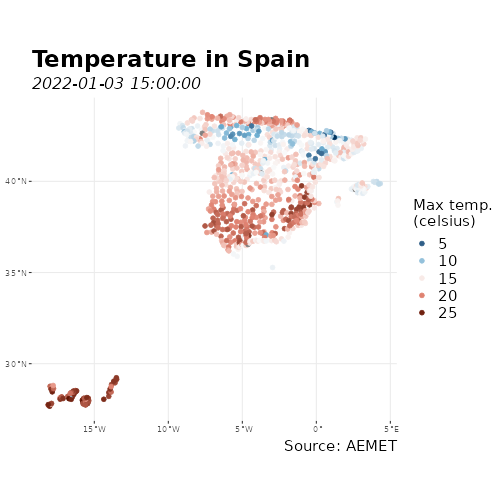
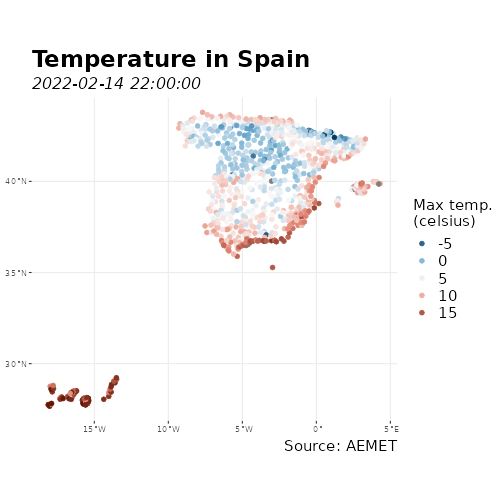
Update docs with pkgdev

diff --git a/README.md b/README.md
@@ -124,16 +124,16 @@ aemet_last_obs("9434")
 #> # A tibble: 23 × 25
 #>    idema   lon fint                 prec   alt  vmax    vv    dv   lat  dmax
 #>    <chr> <dbl> <dttm>              <dbl> <dbl> <dbl> <dbl> <dbl> <dbl> <dbl>
-#>  1 9434  -1.00 2022-01-03 15:00:00     0   249   2.7   1.8    93  41.7    33
-#>  2 9434  -1.00 2022-01-03 16:00:00     0   249   2.7   1.8    95  41.7    95
-#>  3 9434  -1.00 2022-01-03 17:00:00     0   249   2.4   1.2    71  41.7   130
-#>  4 9434  -1.00 2022-01-03 18:00:00     0   249   2.3   1      90  41.7    60
-#>  5 9434  -1.00 2022-01-03 19:00:00     0   249   1.9   0.8   209  41.7    63
-#>  6 9434  -1.00 2022-01-03 20:00:00     0   249   3.2   1.4    86  41.7   120
-#>  7 9434  -1.00 2022-01-03 21:00:00     0   249   3.4   1.5    93  41.7   125
-#>  8 9434  -1.00 2022-01-03 22:00:00     0   249   5.6   2.2   125  41.7   105
-#>  9 9434  -1.00 2022-01-03 23:00:00     0   249   3.8   2.4   127  41.7   120
-#> 10 9434  -1.00 2022-01-04 00:00:00     0   249   4.7   2.6   118  41.7   158
+#>  1 9434  -1.00 2022-02-14 23:00:00     0   249   6.3   3.3   286  41.7   295
+#>  2 9434  -1.00 2022-02-15 00:00:00     0   249   7.4   5.2   297  41.7   303
+#>  3 9434  -1.00 2022-02-15 01:00:00     0   249   7.4   4.9   283  41.7   295
+#>  4 9434  -1.00 2022-02-15 02:00:00     0   249  11.6   7.1   293  41.7   298
+#>  5 9434  -1.00 2022-02-15 03:00:00     0   249   9.8   5.3   291  41.7   300
+#>  6 9434  -1.00 2022-02-15 04:00:00     0   249   9.6   6.1   292  41.7   295
+#>  7 9434  -1.00 2022-02-15 05:00:00     0   249   9.2   3.8   290  41.7   308
+#>  8 9434  -1.00 2022-02-15 06:00:00     0   249   8.4   6.6   296  41.7   298
+#>  9 9434  -1.00 2022-02-15 07:00:00     0   249   9.5   5.8   314  41.7   303
+#> 10 9434  -1.00 2022-02-15 08:00:00     0   249   7.6   5.1   310  41.7   295
 #> # … with 13 more rows, and 15 more variables: ubi <chr>, pres <dbl>, hr <dbl>,
 #> #   stdvv <dbl>, ts <dbl>, pres_nmar <dbl>, tamin <dbl>, ta <dbl>, tamax <dbl>,
 #> #   tpr <dbl>, stddv <dbl>, inso <dbl>, tss5cm <dbl>, pacutp <dbl>,
@@ -172,14 +172,14 @@ data_observation <- aemet_last_obs(station)
 knitr::kable(head(data_observation))
 ```
 
-| idema |        lon | fint                | prec | alt | vmax |  vv |  dv |      lat | dmax | ubi                 |  pres | hr | stdvv |   ts | pres\_nmar | tamin |   ta | tamax | tpr | stddv | inso | tss5cm | pacutp | tss20cm |
-| :---- | ---------: | :------------------ | ---: | --: | ---: | --: | --: | -------: | ---: | :------------------ | ----: | -: | ----: | ---: | ---------: | ----: | ---: | ----: | --: | ----: | ---: | -----: | -----: | ------: |
-| 9434  | \-1.004167 | 2022-01-03 15:00:00 |    0 | 249 |  2.7 | 1.8 |  93 | 41.66056 |   33 | ZARAGOZA AEROPUERTO | 992.6 | 68 |   0.3 | 12.0 |     1022.7 |  12.0 | 12.9 |  12.9 | 7.1 |    13 |   60 |   10.6 |      0 |     8.3 |
-| 9434  | \-1.004167 | 2022-01-03 16:00:00 |    0 | 249 |  2.7 | 1.8 |  95 | 41.66056 |   95 | ZARAGOZA AEROPUERTO | 992.0 | 72 |   0.3 | 12.3 |     1022.2 |  12.4 | 12.4 |  13.0 | 7.4 |    11 |   60 |   10.3 |      0 |     8.6 |
-| 9434  | \-1.004167 | 2022-01-03 17:00:00 |    0 | 249 |  2.4 | 1.2 |  71 | 41.66056 |  130 | ZARAGOZA AEROPUERTO | 991.8 | 80 |   0.2 |  7.7 |     1022.2 |  10.0 | 10.0 |  12.4 | 6.7 |    14 |   28 |    9.8 |      0 |     8.9 |
-| 9434  | \-1.004167 | 2022-01-03 18:00:00 |    0 | 249 |  2.3 | 1.0 |  90 | 41.66056 |   60 | ZARAGOZA AEROPUERTO | 991.6 | 86 |   0.1 |  5.4 |     1022.2 |   8.3 |  8.3 |  10.0 | 6.1 |    12 |    0 |    9.0 |      0 |     9.0 |
-| 9434  | \-1.004167 | 2022-01-03 19:00:00 |    0 | 249 |  1.9 | 0.8 | 209 | 41.66056 |   63 | ZARAGOZA AEROPUERTO | 991.5 | 89 |   0.3 |  4.9 |     1022.2 |   7.3 |  7.3 |   8.3 | 5.6 |    15 |    0 |    8.4 |      0 |     9.0 |
-| 9434  | \-1.004167 | 2022-01-03 20:00:00 |    0 | 249 |  3.2 | 1.4 |  86 | 41.66056 |  120 | ZARAGOZA AEROPUERTO | 991.2 | 92 |   0.3 |  5.1 |     1022.0 |   7.0 |  7.0 |   7.3 | 5.8 |    13 |    0 |    7.9 |      0 |     9.0 |
+| idema |        lon | fint                | prec | alt | vmax |  vv |  dv |      lat | dmax | ubi                 |  pres | hr | stdvv |  ts | pres\_nmar | tamin |  ta | tamax | tpr | stddv | inso | tss5cm | pacutp | tss20cm |
+| :---- | ---------: | :------------------ | ---: | --: | ---: | --: | --: | -------: | ---: | :------------------ | ----: | -: | ----: | --: | ---------: | ----: | --: | ----: | --: | ----: | ---: | -----: | -----: | ------: |
+| 9434  | \-1.004167 | 2022-02-14 23:00:00 |    0 | 249 |  6.3 | 3.3 | 286 | 41.66056 |  295 | ZARAGOZA AEROPUERTO | 992.5 | 68 |   0.5 | 5.9 |     1023.3 |   6.9 | 6.9 |   7.8 | 1.5 |     7 |    0 |    9.7 |      0 |    10.8 |
+| 9434  | \-1.004167 | 2022-02-15 00:00:00 |    0 | 249 |  7.4 | 5.2 | 297 | 41.66056 |  303 | ZARAGOZA AEROPUERTO | 993.1 | 65 |   0.6 | 6.5 |     1023.9 |   6.9 | 7.5 |   7.5 | 1.3 |     7 |    0 |    9.3 |      0 |    10.6 |
+| 9434  | \-1.004167 | 2022-02-15 01:00:00 |    0 | 249 |  7.4 | 4.9 | 283 | 41.66056 |  295 | ZARAGOZA AEROPUERTO | 993.4 | 63 |   0.6 | 6.2 |     1024.2 |   7.0 | 7.2 |   7.5 | 0.6 |     7 |    0 |    9.0 |      0 |    10.4 |
+| 9434  | \-1.004167 | 2022-02-15 02:00:00 |    0 | 249 | 11.6 | 7.1 | 293 | 41.66056 |  298 | ZARAGOZA AEROPUERTO | 993.6 | 60 |   1.4 | 7.2 |     1024.4 |   7.2 | 7.9 |   8.0 | 0.6 |    10 |    0 |    8.8 |      0 |    10.3 |
+| 9434  | \-1.004167 | 2022-02-15 03:00:00 |    0 | 249 |  9.8 | 5.3 | 291 | 41.66056 |  300 | ZARAGOZA AEROPUERTO | 993.6 | 65 |   0.9 | 6.1 |     1024.4 |   6.9 | 7.1 |   7.9 | 0.9 |     8 |    0 |    8.6 |      0 |    10.1 |
+| 9434  | \-1.004167 | 2022-02-15 04:00:00 |    0 | 249 |  9.6 | 6.1 | 292 | 41.66056 |  295 | ZARAGOZA AEROPUERTO | 994.1 | 63 |   0.7 | 6.4 |     1024.9 |   7.1 | 7.5 |   7.8 | 0.9 |     6 |    0 |    8.4 |      0 |    10.0 |
 
 ``` r
 
